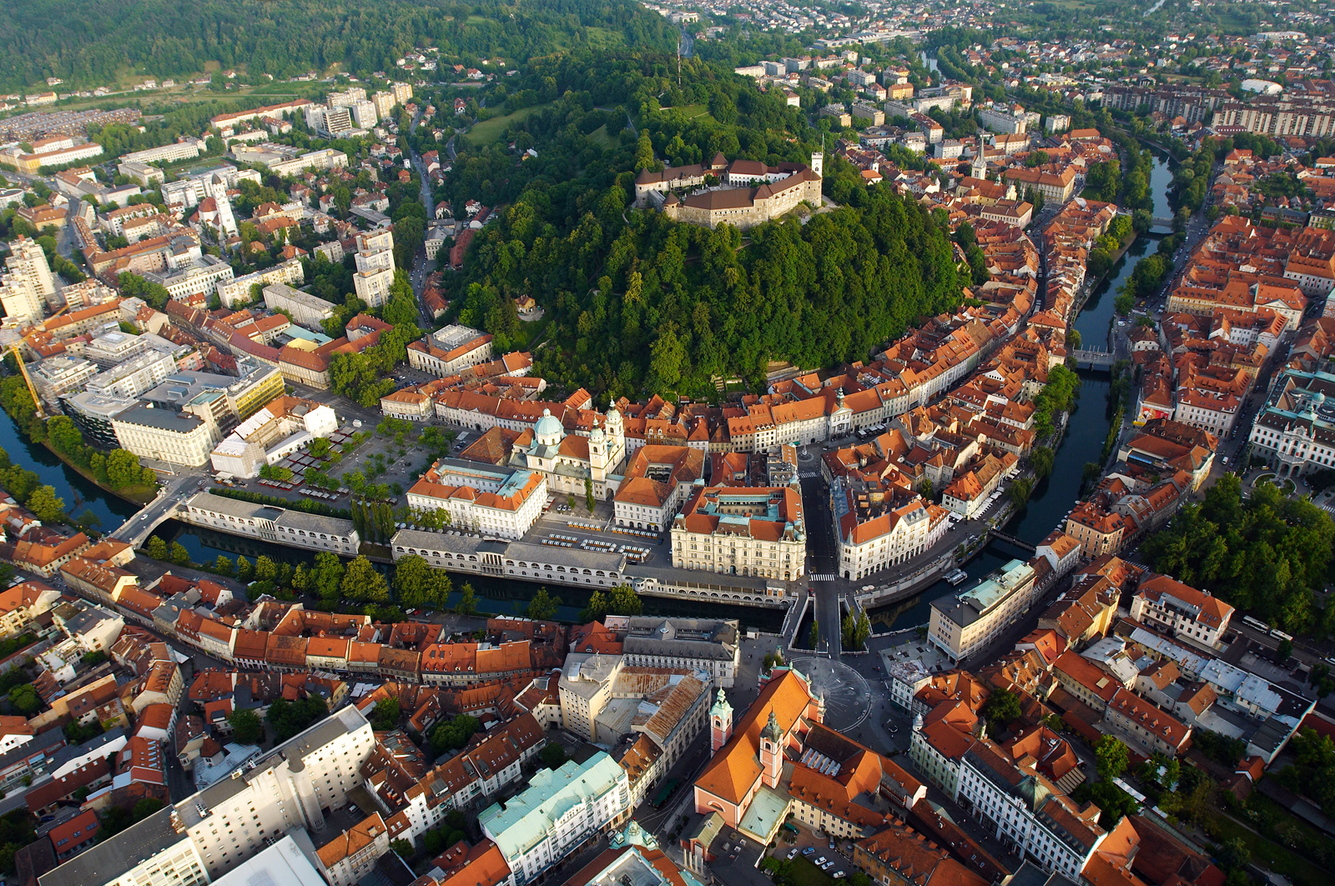
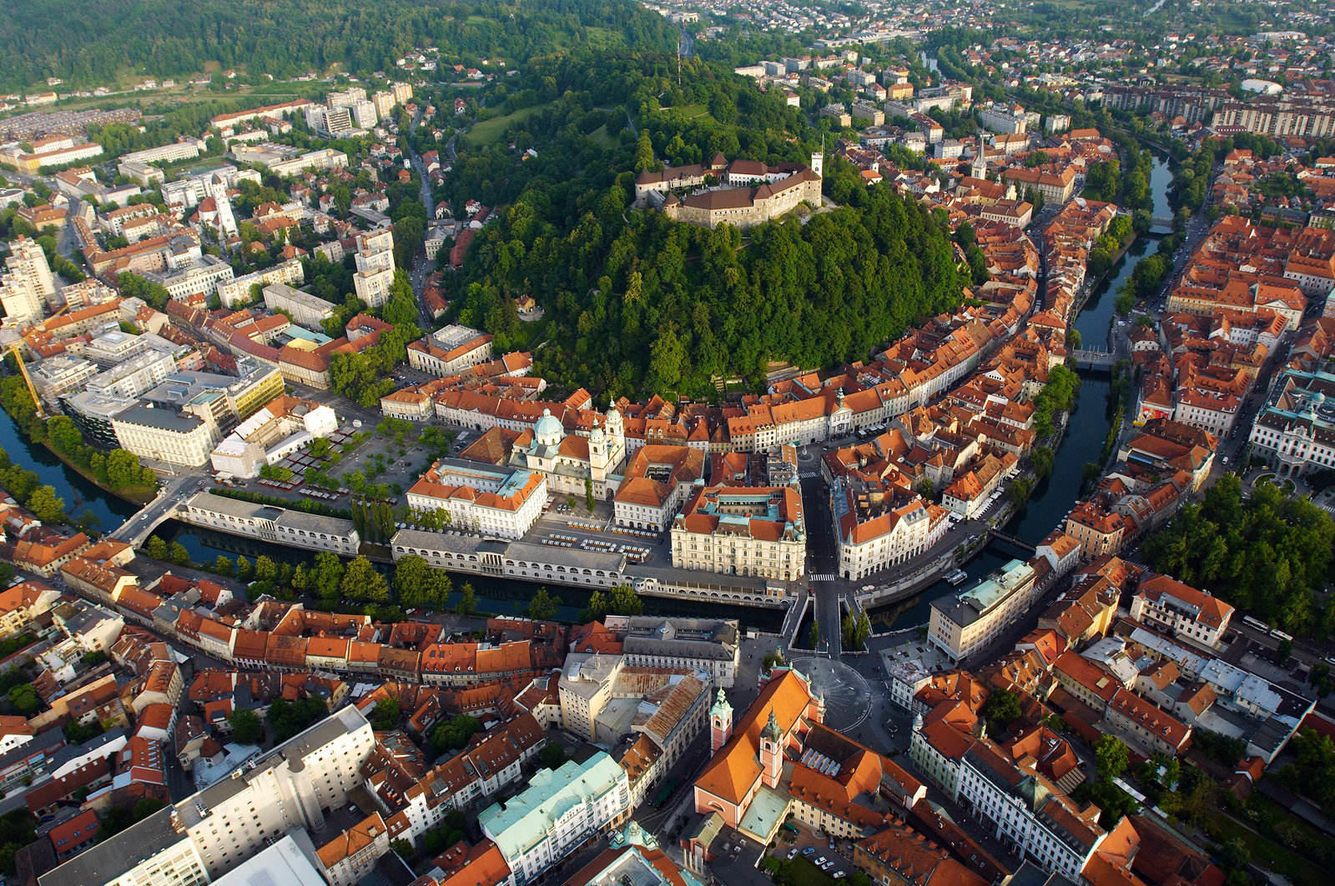
zmanjsana velikost LJ slik, da se hitreje nalozi, prihranjen cca 2 MB

diff --git a/index.html b/index.html
@@ -117,7 +117,7 @@
           <div class="intro-heading">EESTEC </div>
           <div class="intro-heading">Spring Congress</div>
           <div class="intro-lead-in">Ljubljana</div>
-          <a href="#services" class="page-scroll btn btn-xl">22.4.2017 - 28.4.2017</a>
+          <a class="btn btn-xl">22.4.2017 - 28.4.2017</a>
         </div>
       </div>
 
